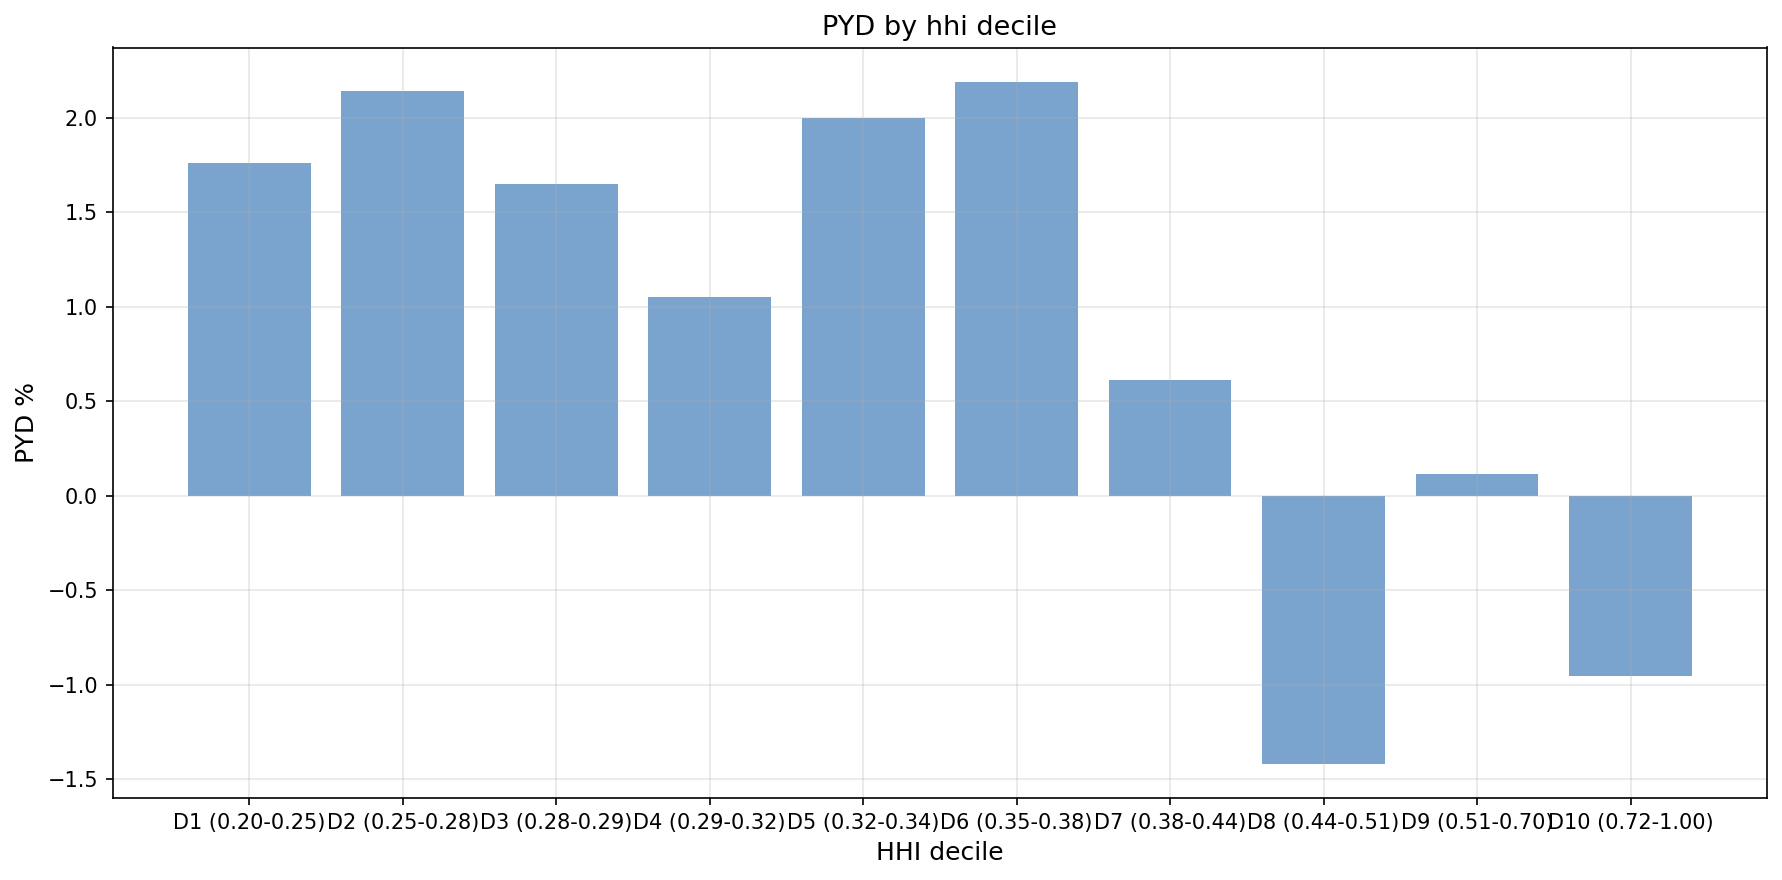
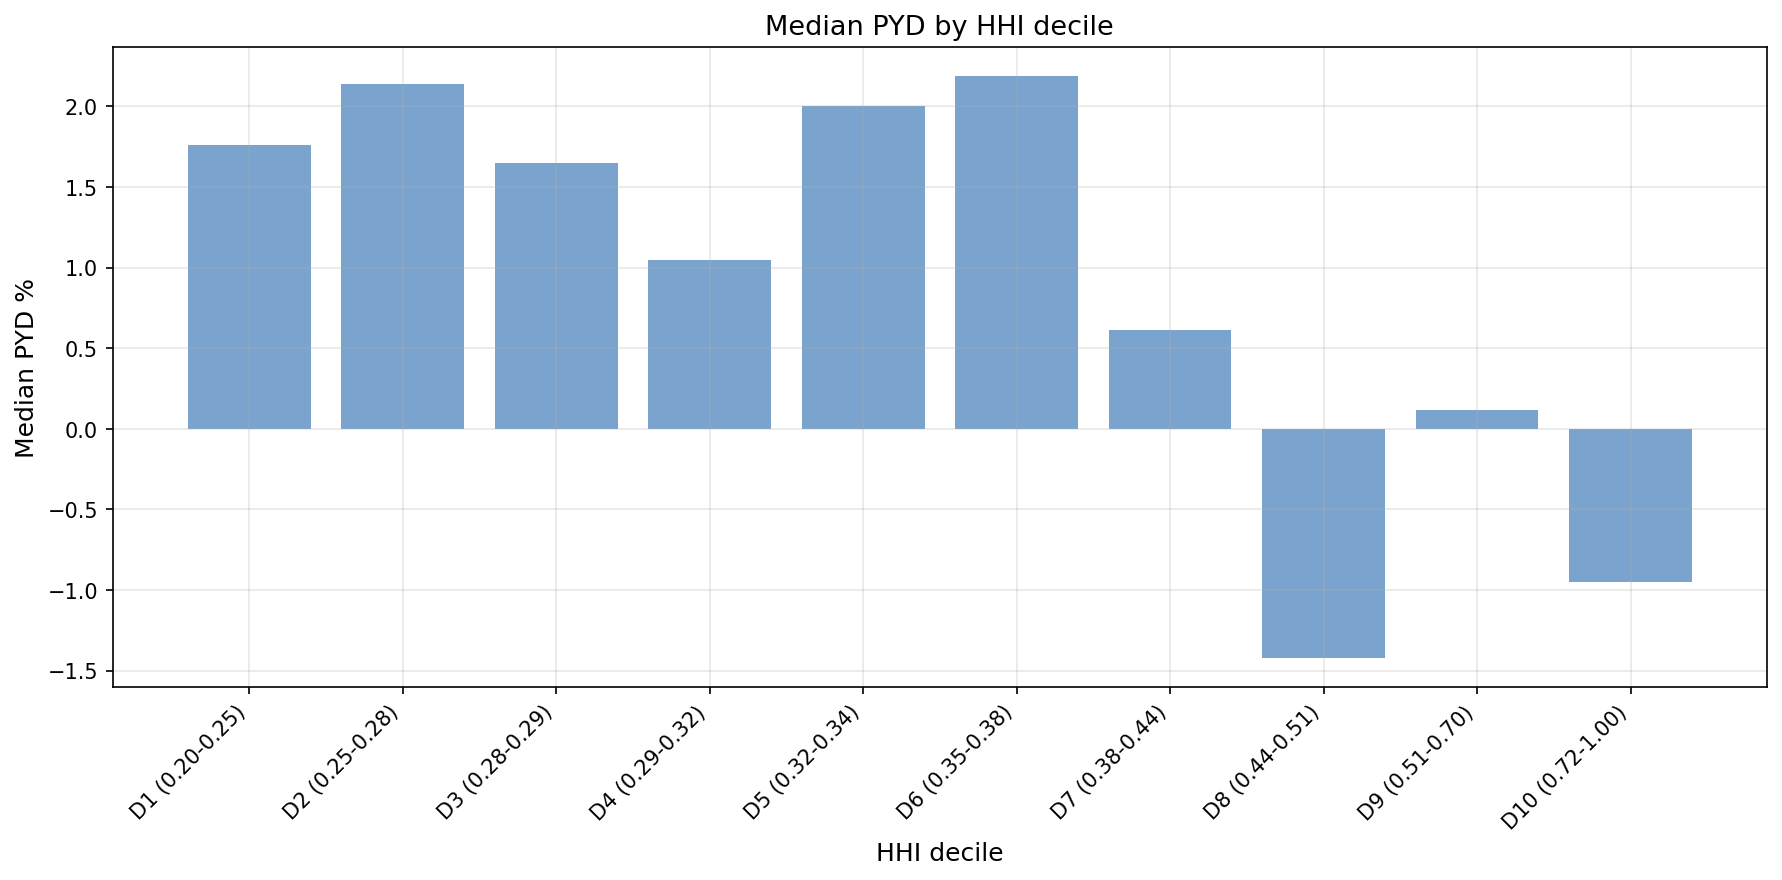
Clarify diagnostic figures and prevent label overlap

diff --git a/src/run_analysis.py b/src/run_analysis.py
@@ -7752,6 +7752,7 @@ def _gen_fig_boxplots(results):
             if not data:
                 continue
         fig, ax = plt.subplots(figsize=(12, 6))
+        summary_medians = False
         if isinstance(data, list) and data:
             if isinstance(data[0], dict):
                 labels = [str(d.get("label", d.get("year", d.get("decile", i)))) for i, d in enumerate(data)]
@@ -7761,13 +7762,17 @@ def _gen_fig_boxplots(results):
                                boxprops=dict(facecolor=_PP_RAW_COL, alpha=0.3))
                 else:
                     # Maybe summary stats format
+                    summary_medians = True
                     medians = [d.get("median", 0) for d in data]
                     ax.bar(range(len(medians)), medians, color=_PP_RAW_COL, alpha=0.6)
                     ax.set_xticks(range(len(labels)))
                     ax.set_xticklabels(labels)
-        _setup_ax(ax, xlabel, "PYD %", f"PYD by {xlabel.lower()}")
-        if len(str(labels[0] if data else "")) <= 4:
-            ax.tick_params(axis='x', rotation=45)
+        ylabel = "Median PYD %" if summary_medians else "PYD %"
+        title = f"Median PYD by {xlabel}" if summary_medians else f"PYD by {xlabel}"
+        _setup_ax(ax, xlabel, ylabel, title)
+        ax.tick_params(axis='x', rotation=45)
+        for tick in ax.get_xticklabels():
+            tick.set_ha("right")
         _save_fig(fig, fname)
 
 
@@ -8014,8 +8019,8 @@ def _gen_fig_hhi_adjusted_size(results):
         by = [p["y"] for p in bp]
         ax.scatter(bx, by, s=50, color='#e74c3c', zorder=5, label="Bin means")
 
-    _setup_ax(ax, "Opening Reserves (£m)", "HHI-adjusted $\\sigma^2$",
-              "HHI-adjusted dispersion vs reserve size")
+    _setup_ax(ax, "Opening Reserves (£m)", "HHI-adjusted squared severity",
+              "HHI-adjusted dispersion: sequential diagnostic")
     ax.legend(fontsize=10)
     _save_fig(fig, "fig_hhi_adjusted_size.png")
 
@@ -8039,7 +8044,7 @@ def _gen_fig_capital_decomposition(results):
     ax.set_xticks(x)
     ax.set_xticklabels(names, rotation=30, ha='right', fontsize=9)
     _setup_ax(ax, "", "VaR 99.5%", "Capital decomposition (VaR 99.5%; size-only operator, $\\gamma=0$)")
-    ax.legend(fontsize=10)
+    ax.legend(fontsize=10, loc="upper left", bbox_to_anchor=(1.01, 1.0))
     _save_fig(fig, "fig_capital_decomposition.png")
 
 

diff --git a/src/test_diagnostic_plot_coordinates.py b/src/test_diagnostic_plot_coordinates.py
@@ -88,4 +88,34 @@ def test_capital_outputs_identify_concentration_only_and_size_only_operator(monk
     assert [bar.get_height() for bar in ax.patches] == pytest.approx([0.1, 0.2, 0.5])
     assert [t.get_text() for t in ax.get_legend().get_texts()] == ['Naive', 'Concentration-only', 'Fully adjusted']
     assert r'\gamma=0' in ax.get_title()
+    assert ax.transAxes.inverted().transform(ax.get_legend().get_bbox_to_anchor().get_points()[0])[0] > 1
+    plt.close(fig)
+
+
+def test_median_fallback_labels_and_values_and_raw_boxplot_label(results, monkeypatch):
+    saved = []
+    monkeypatch.setattr(ra, '_save_fig', lambda fig, name: saved.append((fig, name)))
+    ra._gen_fig_boxplots(results)
+    for fig, name in saved:
+        ax = fig.axes[0]
+        assert 'Median' in ax.get_title() and 'Median' in ax.get_ylabel()
+        key = {'fig_boxplot_year.png': 'by_year', 'fig_boxplot_reserves.png': 'by_reserves_decile',
+               'fig_boxplot_hhi.png': 'by_hhi_decile'}[name]
+        data = results['distribution']['boxplots'][key]
+        assert [p.get_height() for p in ax.patches] == pytest.approx([d['median'] for d in data])
+        plt.close(fig)
+    assert len(saved) == 3
+    saved.clear()
+    ra._gen_fig_boxplots({'distribution': {'boxplots': {'by_year': [{'year': 2020, 'values': [1, 2, 3]}]}}})
+    ax = saved[0][0].axes[0]
+    assert 'Median' not in ax.get_ylabel() and 'Median' not in ax.get_title()
+    plt.close(saved[0][0])
+
+
+def test_hhi_first_label_describes_observations(results, monkeypatch):
+    fig = capture(monkeypatch, ra._gen_fig_hhi_adjusted_size, results)
+    ax = fig.axes[0]
+    pts = results['joint_composition']['hhi_first']['scatter_points']
+    np.testing.assert_allclose(ax.collections[0].get_offsets()[:, 1], [p['y_adj_sq'] for p in pts])
+    assert 'squared severity' in ax.get_ylabel() and 'diagnostic' in ax.get_title()
     plt.close(fig)
